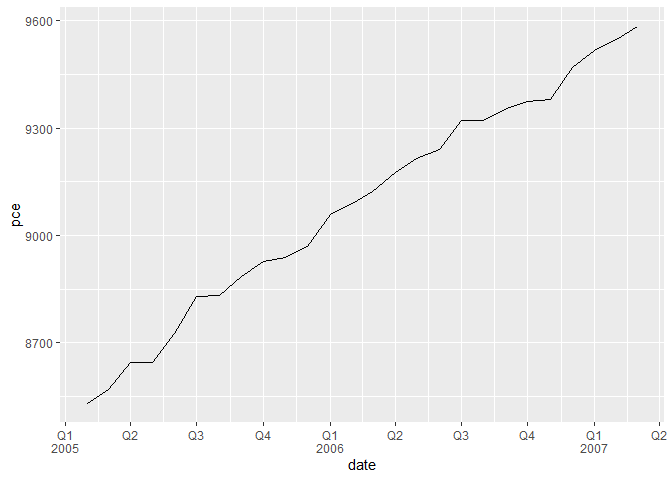
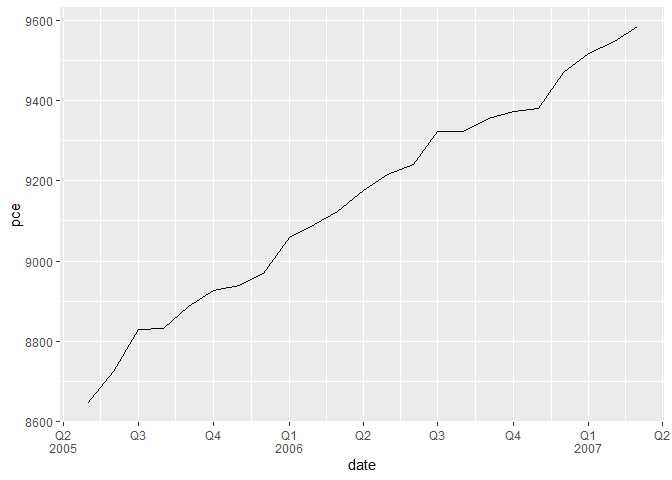
use tibble instead of data.frame in examples, set date bounds that better illustrate label_quarters_short()

diff --git a/README.md b/README.md
@@ -45,21 +45,19 @@ ugly_data <- tibble(
   non_logical_factor = factor(c("x", "y", "z")),
   mixed_char = c("T", "F", "a"),
   mixed_factor = factor(c("TRUE", "FALSE", "x")),
-  numeric_col = c(1.1, 2.2, 3.3),
-  stringsAsFactors = FALSE
+  numeric_col = c(1.1, 2.2, 3.3)
 )
 
 
 ugly_data |> normalize_logicals()
 #> Converted "logical_char" and "logical_factor" columns to logical.
-#> # A tibble: 3 × 8
+#> # A tibble: 3 × 7
 #>   logical_char logical_factor non_logical_char non_logical_factor mixed_char
 #>   <lgl>        <lgl>          <chr>            <fct>              <chr>     
 #> 1 TRUE         TRUE           a                x                  T         
 #> 2 FALSE        FALSE          b                y                  F         
 #> 3 TRUE         TRUE           c                z                  a         
-#> # ℹ 3 more variables: mixed_factor <fct>, numeric_col <dbl>,
-#> #   stringsAsFactors <lgl>
+#> # ℹ 2 more variables: mixed_factor <fct>, numeric_col <dbl>
 ```
 
 ### Year-to-date helpers
@@ -76,7 +74,7 @@ How were the sales in the comparable period of 2024 and 2023?
 
 ``` r
 set.seed(123)
-sales <- data.frame(
+sales <- tibble(
   date = seq(
     from = as.Date("2023-01-01"),
     to = as.Date("2025-06-01"),
@@ -86,7 +84,9 @@ sales <- data.frame(
 )
 
 head(sales)
-#>         date amount
+#> # A tibble: 6 × 2
+#>   date       amount
+#>   <date>      <int>
 #> 1 2023-01-01     94
 #> 2 2023-02-01    111
 #> 3 2023-03-01     83
@@ -164,7 +164,7 @@ breaks for date scales.
 library(ggplot2)
 
 economics |>
-  filter(date >= "2005-02-01", date <= "2007-03-01") |>
+  filter(date >= "2005-05-01", date <= "2007-03-01") |>
   ggplot(aes(date, pce)) +
   geom_line() +
   scale_x_date(
